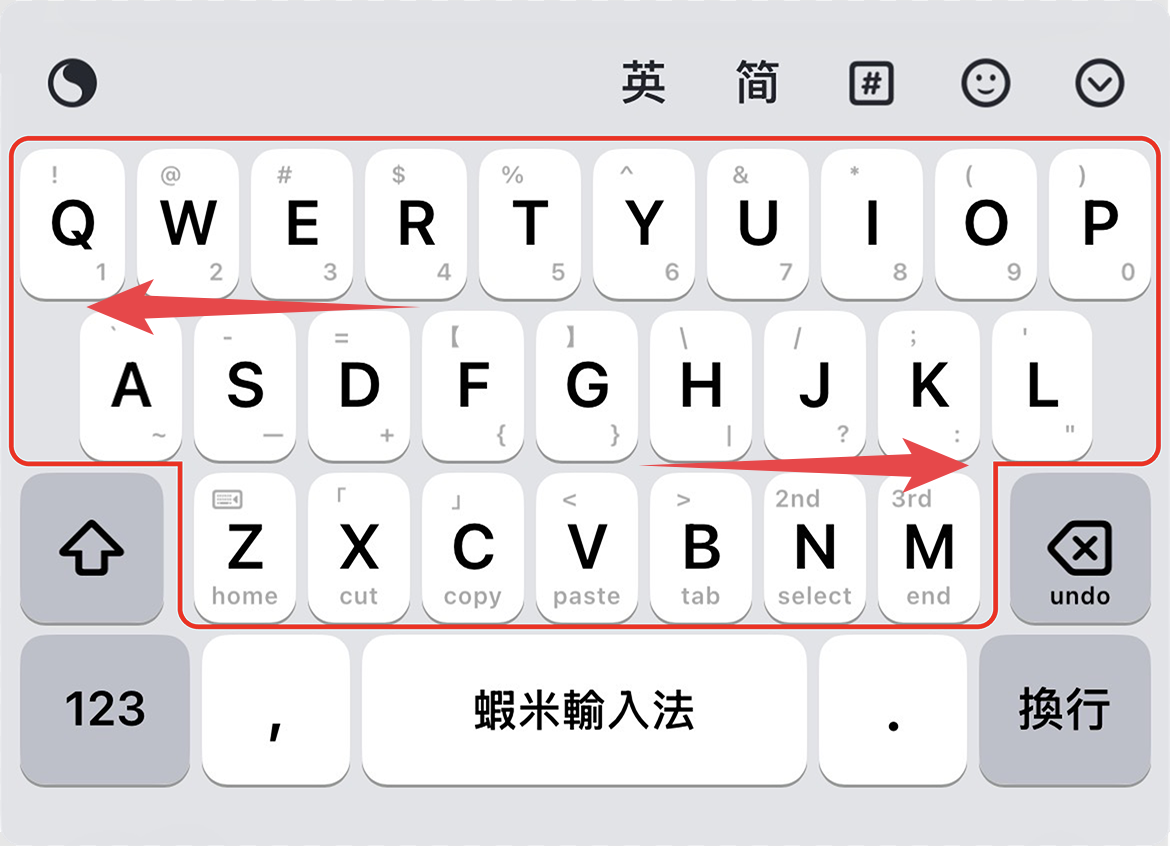
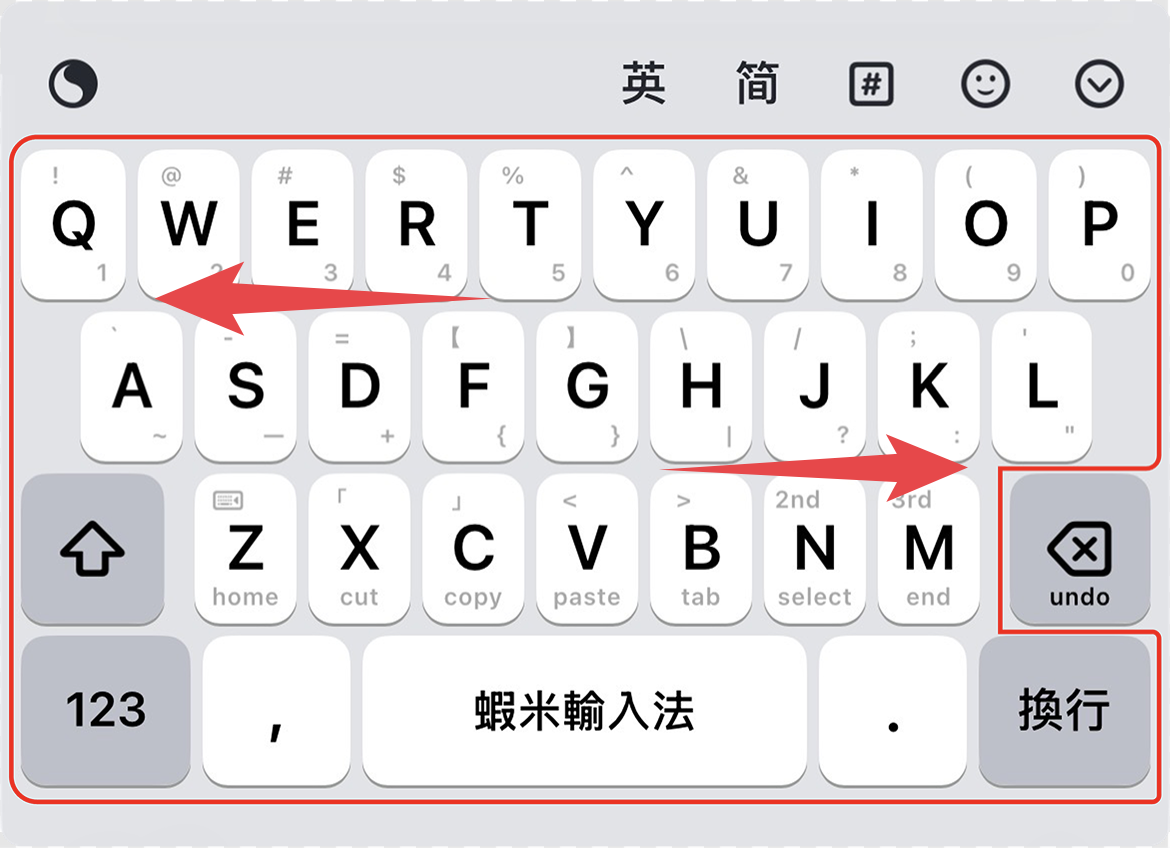
update

diff --git a/README.md b/README.md
@@ -91,7 +91,7 @@
    - 將皮膚儲存至「檔案.app」
    - 以元書輸入法 App 開啟
    - 選擇「鍵盤皮膚」
-   - 勾選「蝦米皮膚主題」
+   - 勾選「皮膚主題」
 
 ## 基本使用
 
@@ -113,9 +113,9 @@
 | 功能 | 快捷鍵/引導鍵 | 說明 | 備註 |
 |:-----|:-------------|:-----|:-----|
 | 造詞模式 | `;` | 臨時造詞功能 | 「屏蔽無效鍵」方案不適用 |
-| 同音選字 | 左下角`「123」`鍵或L上滑`'` | 打完字碼後直接按左下角`「123」`或上滑L帶出 `'` |  |
+| 同音選字 | 左下角`「同音」`鍵或L上滑`'` | 打完字碼後直接按左下角`「同音」`或上滑L帶出 `'` | 需先鍵入蝦米字碼 |
 | 讀音查詢 | `;;` | 輸入字碼查讀音 | 需開啟元書輸入法「候選Comment功能」 |
-| 拼音輸入 | `;'` | 漢語拼音輸入中文 |  |
+| 拼音輸入 | `;'` | 漢語拼音輸入中文 | 下滑QWERT可對應1～5聲調 |
 | 快打模式 | `,,sp` | 提示可用簡碼 | 需開啟元書輸入法「候選Comment功能」 |
 | 按鍵說明 | `,,h` | 顯示所有快捷鍵說明 |  |
 

diff --git a/docs/user-guide.md b/docs/user-guide.md
@@ -388,7 +388,7 @@
 
 - **Z～M鍵下滑**：分別為「句首」、「剪下」、「複製」、「貼上」、「Tab」、「全選」及「句尾」功能
 
-- **Z、N及M鍵上滑**：分別為「單首模式」、「選擇第2候選字」及「選擇第3候選字」功能
+- **Z、N及M鍵上滑**：分別為「單手模式」、「選擇第2候選字」及「選擇第3候選字」功能
 
   ![03-11特殊上下滑](images/03-11特殊上下滑.png)
 
@@ -406,7 +406,7 @@
 
   ![03-11Delete上下滑](images/03-11Delete上下滑.png)
 
-##### 全鍵盤字母鍵區左右滑動：移動編輯狀態時之游標
+##### 全鍵盤（除了 Backspace 鍵）左右滑動：移動編輯狀態時之游標
 
 ![03-12全鍵盤左右滑動](images/03-12全鍵盤左右滑動.png)
 
